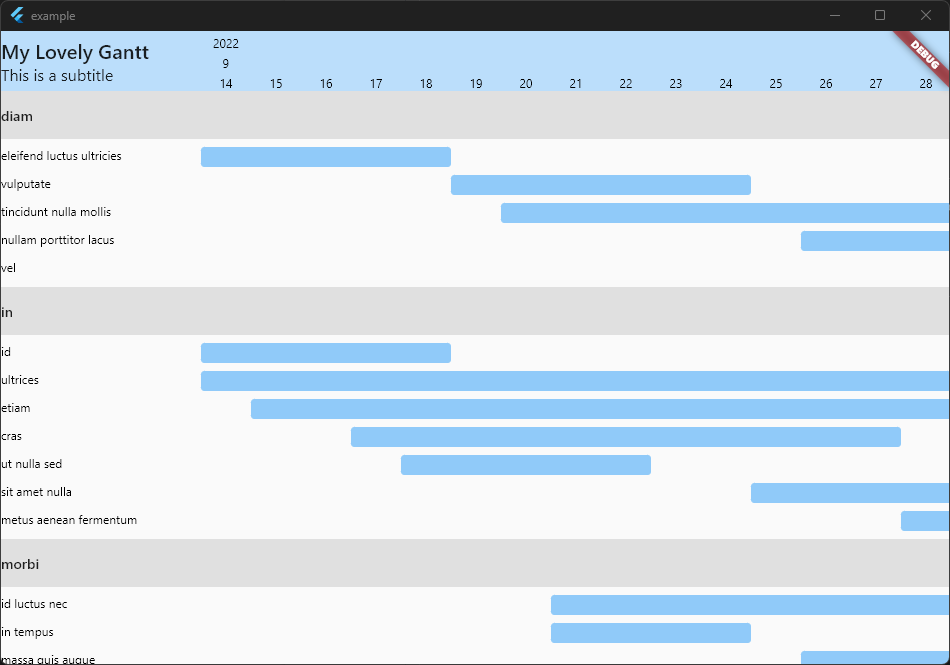
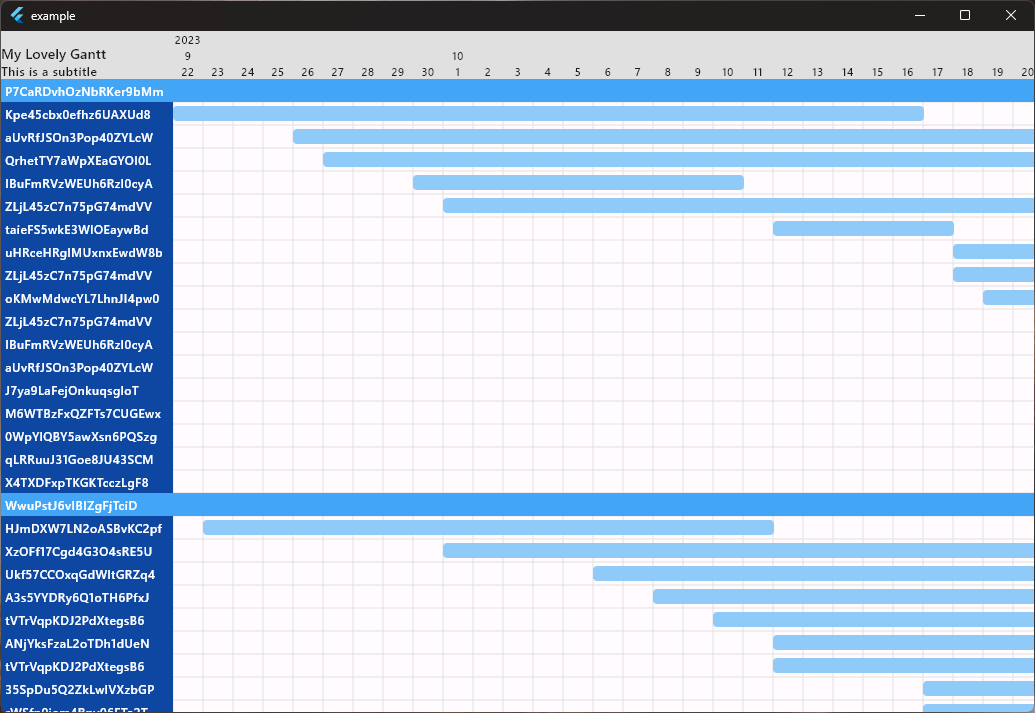
Example and readme updates, legend fix if no dates displayed, defaults updated

diff --git a/example/lib/main.dart b/example/lib/main.dart
@@ -21,6 +21,7 @@ class MyApp extends StatelessWidget {
         useMaterial3: true,
       ),
       home: const MyHomePage(),
+      debugShowCheckedModeBanner: false,
     );
   }
 }
@@ -67,11 +68,19 @@ class _MyHomePageState extends State<MyHomePage> {
         title: 'My Lovely Gantt',
         subtitle: 'This is a subtitle',
         gridScheme: const GridScheme(
+          columnWidth: 30,
+          rowSpacing: 0,
           timelineAxisType: TimelineAxisType.daily,
         ),
         style: GanttStyle(
           context,
+          eventColor: Colors.blue.shade200,
+          eventHeaderColor: Colors.blue.shade400,
+          eventLabelColor: Colors.blue.shade900,
           gridColor: Colors.grey.shade300,
+          eventLabelPadding: const EdgeInsets.all(4),
+          eventRadius: 4,
+          timelineColor: Colors.grey.shade300,
         ),
       ),
     );

diff --git a/lib/ui/painter/gantt_ui_painter.dart b/lib/ui/painter/gantt_ui_painter.dart
@@ -41,9 +41,6 @@ class GanttUiPainter extends GanttPainter {
 
     double height = 0;
     for (int x = firstVisibleColumn; x < lastVisibleColumn; x++) {
-      if (layoutData.settings.gridScheme.showYear ||
-          layoutData.settings.gridScheme.showMonth ||
-          layoutData.settings.gridScheme.showDay) {
         final paint = Paint()
           ..color = layoutData.settings.style.timelineColor
           ..style = PaintingStyle.fill;
@@ -86,7 +83,6 @@ class GanttUiPainter extends GanttPainter {
 
         height = max(height, textPainter.height);
       }
-    }
   }
 
   void _paintHeader(int index, Canvas canvas, GanttRowData rowData) {

diff --git a/lib/settings/theme/gantt_style.dart b/lib/settings/theme/gantt_style.dart
@@ -22,10 +22,10 @@ class GanttStyle {
   GanttStyle(
     BuildContext context, {
     Color? eventColor,
-    this.eventRadius = 8.0,
+    this.eventRadius = 0.0,
     TextStyle? eventLabelStyle,
     Color? eventLabelColor,
-    this.eventLabelPadding = const EdgeInsets.all(6),
+    this.eventLabelPadding = const EdgeInsets.all(0),
     TextStyle? eventHeaderStyle,
     Color? eventHeaderColor,
     Color? timelineColor,

diff --git a/lib/settings/theme/grid_scheme.dart b/lib/settings/theme/grid_scheme.dart
@@ -12,8 +12,8 @@ class GridScheme {
   final TimelineAxisType timelineAxisType;
 
   const GridScheme({
-    this.rowHeight = 20.0,
-    this.rowSpacing = 4.0,
+    this.rowHeight = 12.0,
+    this.rowSpacing = 0.0,
     this.columnWidth = 50.0,
     this.showYear = true,
     this.showMonth = true,

diff --git a/README.md b/README.md
@@ -21,37 +21,34 @@ There are basic theming options available for customising the look and feel of t
 
 ```dart
 GanttView(
-    controller: _controller, // required
-    rowSpacing: 8.0,
+    controller: _controller,
     title: 'My Lovely Gantt',
     subtitle: 'This is a subtitle',
-    headerRowTheme: HeaderRowTheme(
-        height: 48.0,
-        textStyle: Theme.of(context).textTheme.labelLarge,
-        backgroundColor: Colors.grey[300],
+    gridScheme: const GridScheme(
+        columnWidth: 30,
+        rowSpacing: 0,
+        timelineAxisType: TimelineAxisType.daily,
     ),
-    eventRowTheme: EventRowTheme(
-        fillColor: Colors.blue[200],
-        labelStyle: Theme.of(context).textTheme.labelMedium,
-        height: 20,
-        startRadius: 4.0,
-        endRadius: 4.0,
+    style: GanttStyle(
+        context,
+        eventColor: Colors.blue.shade200,
+        eventHeaderColor: Colors.blue.shade400,
+        eventLabelColor: Colors.blue.shade900,
+        gridColor: Colors.grey.shade300,
+        eventLabelPadding: const EdgeInsets.all(4),
+        eventRadius: 4,
+        timelineColor: Colors.grey.shade300,
     ),
-    legendTheme: LegendTheme(
-        width: 200,
-        dateStyle: Theme.of(context).textTheme.labelMedium,
-        backgroundColor: Colors.blue[100],
-    ),
-    timelineAxisType: TimelineAxisType.daily,
 )
 ```
 
 To display events in the `GanttView`, a `GanttDataController` is required. The `GanttDataController` has
 2 required fields, `items` and `eventBuilder`. The `items` field is a list of items that are used by the `GanttDataController` to build an internal data model for the `GanttView` to display. The `eventBuilder` is a function that takes an item from the `items` list and returns a `GanttEvent` data object. The `GanttEvent` data object provides the required data to display an event in the `GanttView`.
 
-If a `headerBuilder` is provided, the `GanttView` will display a header row above the events. The `headerBuilder` is a function that takes an item from the `items` list and returns a `GanttHeader` data object. The `GanttHeader` data object provides the required data to display a header in the `GanttView`.
+If a `headerLabelBuilder` is provided, the `GanttView` will display a header row above the events. The `headerLabelBuilder` is a function that takes an item from the `items` list and returns a `String`. The header String is then used to group events together to be displayed as part of the same activity.
 
-If a `sorter` is provided, the `GanttDataController` will sort the `items` list before building the internal data model. The `sorter` is a function that takes 2 items from the `items` list and returns an integer. The `sorter` should return a negative integer if the first item should be placed before the second item, a positive integer if the first item should be placed after the second item, or 0 if the items are equal.
+Currently all data is sorted by 'startDate' on the 'GanttEvent' data object. This will be customisable in the future.
+
 
 ```dart
 GanttDataController<ExampleEventItem>(
@@ -61,15 +58,12 @@ GanttDataController<ExampleEventItem>(
     startDate: item.start,
     endDate: item.end,
     ),
-    headerBuilder: (item) => GanttHeader(label: item.group),
-    sorter: (a, b) => <Comparator<ExampleEventItem>>[
+    headerLabelBuilder: (item) => item.group,
+    sorters: [
     (a, b) => a.group.compareTo(b.group),
     (a, b) => a.start.compareTo(b.start),
-    ].map((e) => e(a, b)).firstWhere(
-        (comparator) => comparator != 0,
-        orElse: () => 0,
-        ),
-);
+    ],
+)
 ```
 
 ## Additional information
@@ -84,7 +78,6 @@ The current version was made quickly, and as such, there are some performance is
 - [ ] Add ability to customise weekend colour
 - [ ] Add ability to add custom holiday dates
 - [ ] Add ability to customise holiday colour
-- [ ] Switch from a series of ListViews to a more performant solution
 - [ ] Add tooltip to display event details
 - [ ] Add zooming functionality
 - [ ] Add ability to customise individual event bar colours
